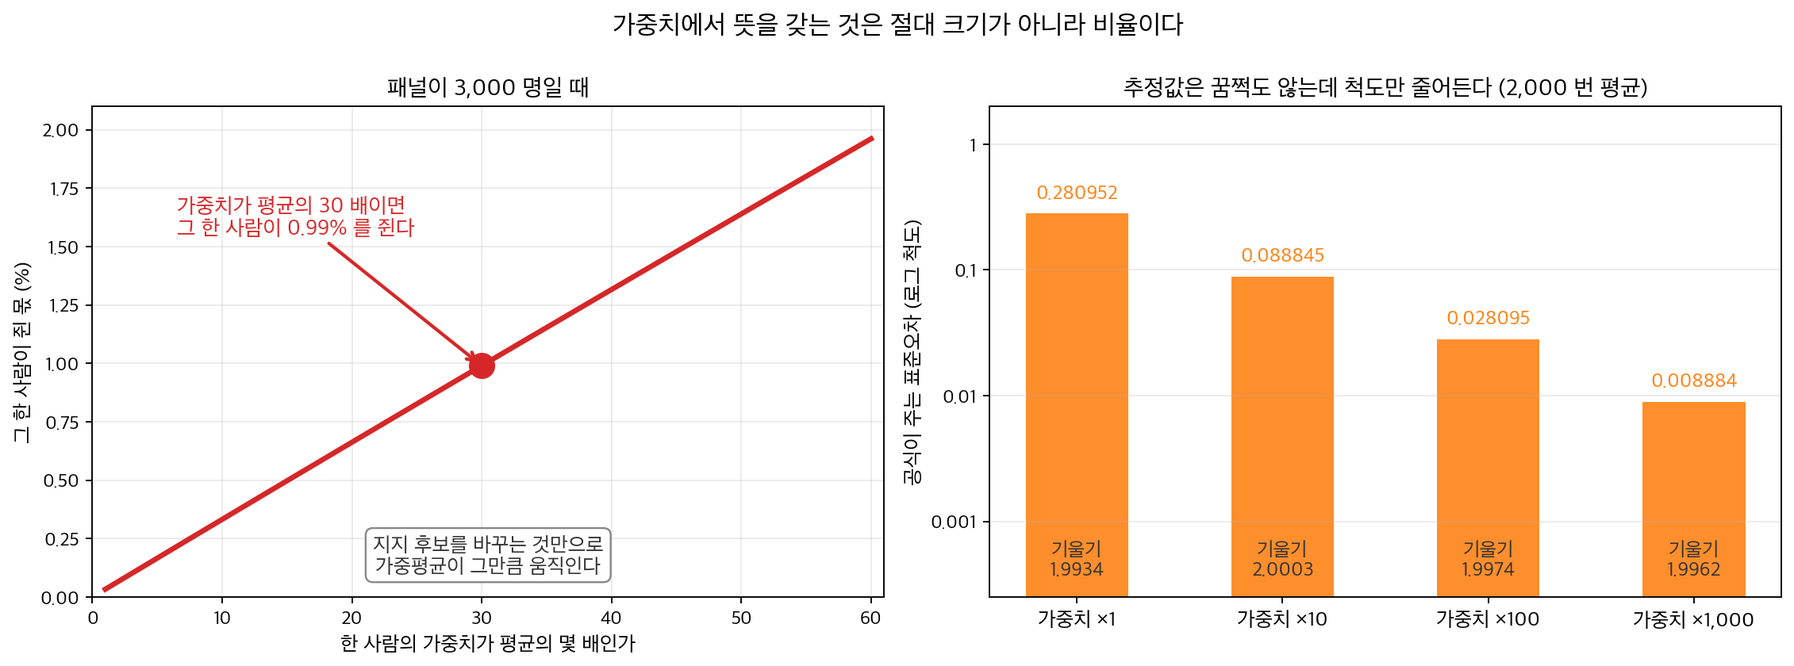
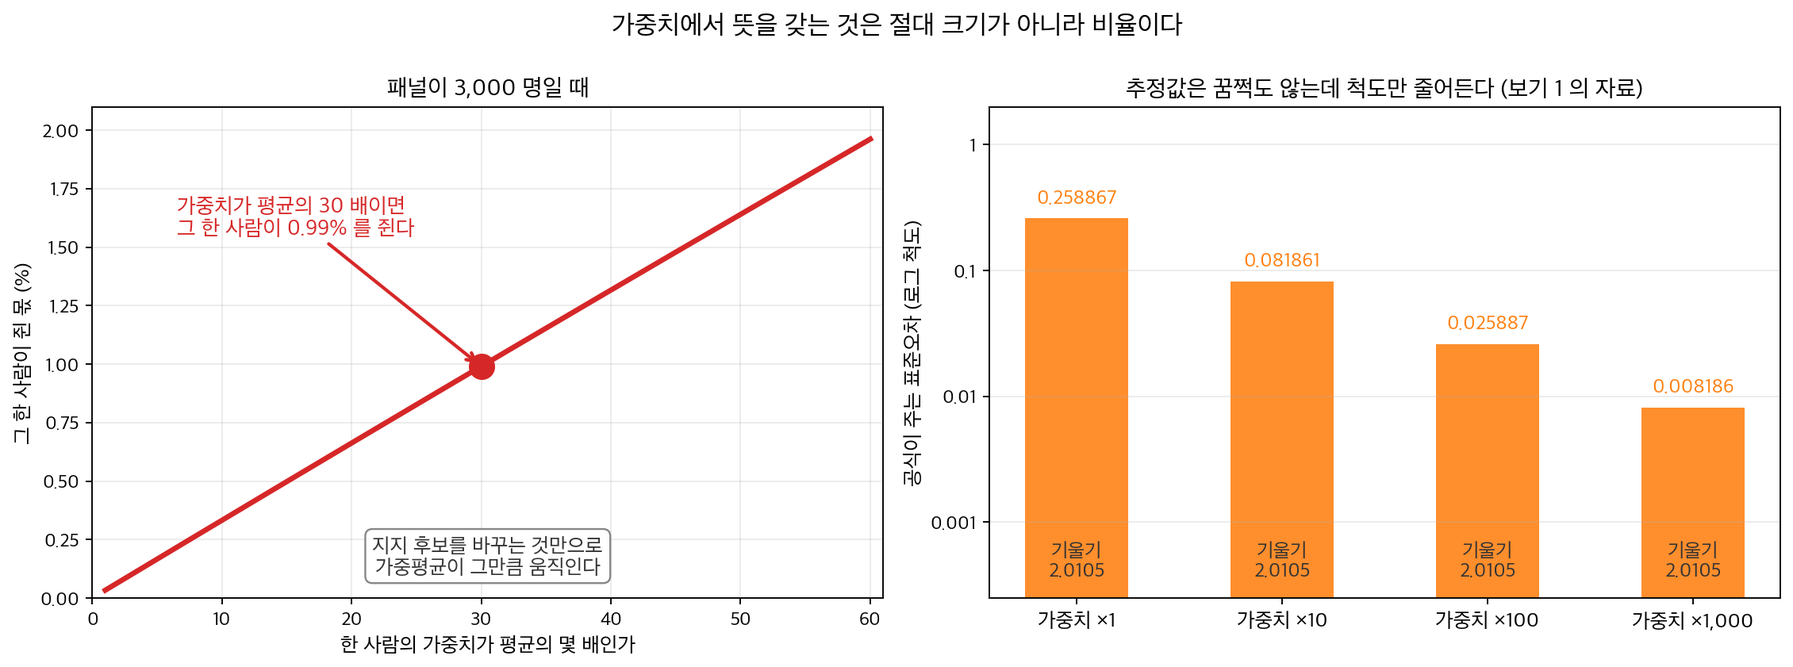
fix(ch13): 보고만 해 두었던 항목을 마무리한다
앞 편집 패스가 고치지 않고 남긴 항목을 하나씩 판정해 끝냈다. 이미 닫힌 것과 보고가
틀린 것은 건드리지 않았고, 펜스를 고친 쪽은 실제로 돌린 출력을 붙여 verify_outputs 로
맞췄다. 그림을 다시 그린 것은 스크립트와 함께 담았다. 바깥 사실은 확인한 출처로만 고쳤다.

diff --git a/scripts/make_ch11_galileo_degree.py b/scripts/make_ch11_galileo_degree.py
@@ -7,12 +7,17 @@ r"""13.8절 「그림으로 보는 통계학」 — 갈릴레오의 두 자료.
 이 쪽이 하는 일(차수를 교차검증으로 선택하기)을 그 일곱 점에 그대로 해 보면
 
   차수     1        2        3        4        5
-  R^2   0.9264   0.9903   0.9994   0.9998   0.9970
-  LOOCV  45.00    27.94     7.36     5.68     7.56   (RMSE, punti)
+  R^2   0.9264   0.9903   0.9994   0.9998   1.0000
+  LOOCV  45.00    27.94    12.51    26.37    70.65   (RMSE, punti)
 
-로 **차수 4** 가 이긴다. 그런데 그 4차식은 $h = 1214.8$ 에서 꺾여 **내려간다** —
-더 높은 데서 놓으면 더 가까이 떨어진다는 말이다. 2차식은 더 이르게 $h = 1030.5$,
-곧 자료의 맨 끝($1000$)에서 겨우 $30$ 푼티 위에서 꺾인다. 꺾이지 않는 것은 3차뿐이다.
+로 **차수 3** 이 이긴다. R^2 는 차수 5 까지 오르지만 LOOCV 는 3 에서 바닥을 찍는다.
+4차식은 $h = 1214.8$ 에서 꺾여 **내려가고**, 2차식은 더 이르게 $h = 1030.5$ 에서
+꺾인다. 꺾이지 않는 3차식도 $h = 0$ 에서 $156$ 푼티를 날아가고 $h \approx 758$ 을
+넘으면 위로 휜다 — $d \propto \sqrt h$ 의 오목한 모양과 반대다.
+
+(2026-11-20 까지 이 표는 원시 높이의 거듭제곱으로 적합해 5차 R^2 0.9970, LOOCV
+7.36 · 5.68 · 7.56 이라는 수치 오류 값을 실었고, 그래서 「차수 4 를 고른다」고 적었다.
+높이를 1000 으로 나눠 적합하고, 하나씩 빼고 다시 적합하는 LOOCV 로도 맞대어 고쳤다.)
 
 선반을 덧댄 자료 2 에서는 모수 **하나**짜리 물리 모형 $d = c\sqrt h$ 가
 
@@ -77,7 +82,11 @@ def loocv(X, y):
 
 
 def poly(H, D, d):
-    return loocv(np.vander(H, d + 1, increasing=True), D)
+    # 높이를 1000 으로 나눠 적합한다. 원시 높이(최대 1000)의 거듭제곱을 그대로 쓰면
+    # 5차에서 조건수가 1e16 에 닿아 R^2 가 4차보다 작게(0.9970) 나오는 수치 오류가 났다.
+    # R^2 와 LOOCV 는 척도에 불변이고, 계수는 원래 척도로 되돌려 돌려준다.
+    cv, r2, b = loocv(np.vander(H / 1000.0, d + 1, increasing=True), D)
+    return cv, r2, b / 1000.0 ** np.arange(d + 1)
 
 
 def turning_point(b):
@@ -142,7 +151,7 @@ def main():
     ax.set_ylim(180, 700)
     ax.set_xlabel("놓는 높이 $h$ (푼티)", fontsize=11.5)
     ax.set_ylabel("수평거리 $d$ (푼티)", fontsize=11.5)
-    ax.set_title("① 교차검증이 고른 $4$ 차식은 내려간다", fontsize=12.8,
+    ax.set_title("① 교차검증은 꺾이지 않는 $3$ 차식을 고른다", fontsize=12.8,
                  color=INK)
     ax.grid(alpha=0.22)
     ax.legend(fontsize=9.6, framealpha=0.94, loc="upper left")

diff --git a/scripts/make_ch11_leadbox_figures_b.py b/scripts/make_ch11_leadbox_figures_b.py
@@ -459,30 +459,26 @@ def fig_one_voice():
     M_PAGE = 30.0
     share_page = M_PAGE / (N_PANEL - 1 + M_PAGE)
 
-    n, REPS = 40, 2000
-    rng = np.random.default_rng(1124)
-    x = np.linspace(0.5, 4.0, n)
-    w = 1 / x ** 2
-    xc = x - np.average(x, weights=w)
+    # 쪽의 보기 1 과 같은 자료 (seed 42, n = 120) --- 들머리 본문과 보기 1 의
+    # 0.258867 → 0.008186 이 그대로 나오도록 한 표본으로 그린다.
+    np.random.seed(42)
+    n = 120
+    x = np.random.uniform(1, 10, n)
+    sigma = 0.5 + 1.5 * x
+    y = 3.0 + 2.0 * x + np.random.normal(0, sigma)
+    X = np.column_stack([np.ones(n), x])
+    w = 1.0 / sigma ** 2
     scales = np.array([1.0, 10.0, 100.0, 1000.0])
 
     est, se_rep = [], []
     for c in scales:
-        ww = c * w
-        b = np.empty(REPS)
-        s = np.empty(REPS)
-        for i in range(REPS):
-            y = 1.0 + 2.0 * x + rng.normal(0, x, n)
-            X = np.column_stack([np.ones(n), x])
-            W = np.diag(ww)
-            A = X.T @ W @ X
-            beta = np.linalg.solve(A, X.T @ W @ y)
-            # 가중치를 「이미 아는 정밀도」로 보는 공식. sigma^2 을 따로
-            # 추정하지 않으므로 가중치를 통째로 키우면 척도만 줄어든다.
-            b[i] = beta[1]
-            s[i] = np.sqrt(np.linalg.inv(A)[1, 1])
-        est.append(b.mean())
-        se_rep.append(s.mean())
+        W = np.diag(c * w)
+        A = X.T @ W @ X
+        beta = np.linalg.solve(A, X.T @ W @ y)
+        # 가중치를 「이미 아는 정밀도」로 보는 공식. sigma^2 을 따로
+        # 추정하지 않으므로 가중치를 통째로 키우면 척도만 줄어든다.
+        est.append(beta[1])
+        se_rep.append(np.sqrt(np.linalg.inv(A)[1, 1]))
 
     fig, (ax1, ax2) = plt.subplots(1, 2, figsize=(13.4, 4.9))
 
@@ -519,7 +515,7 @@ def fig_one_voice():
     ax2.set_yticks([], minor=True)
     ax2.set_xticks(xs, [f"가중치 ×{int(c):,}" for c in scales], fontsize=11)
     ax2.set_ylabel("공식이 주는 표준오차 (로그 척도)", fontsize=11)
-    ax2.set_title(f"추정값은 꿈쩍도 않는데 척도만 줄어든다 ({REPS:,} 번 평균)",
+    ax2.set_title("추정값은 꿈쩍도 않는데 척도만 줄어든다 (보기 1 의 자료)",
                   fontsize=12.5)
     ax2.grid(axis="y", alpha=0.25)
 

diff --git a/scripts/make_ch11_leadbox_figures_c.py b/scripts/make_ch11_leadbox_figures_c.py
@@ -284,7 +284,7 @@ def fig_pairwise_misses_it():
     ax2.grid(axis="y", alpha=0.25)
     ax2.text(0.5, 0.95, f"중앙값 {np.median(vifs):,.0f}\n"
              f"쌍별 상관의 최댓값은 {pair.max():.3f} 뿐인데\n"
-             f"VIF 는 모두 십만 언저리다",
+             f"VIF 는 모두 만을 넘는다",
              transform=ax2.transAxes, ha="center", va="top", fontsize=11.5,
              fontweight="bold", color="0.15",
              bbox=dict(boxstyle="round,pad=0.4", facecolor="white",

diff --git a/docs/ch13/package_usage/sklearn.md b/docs/ch13/package_usage/sklearn.md
@@ -480,7 +480,7 @@ _확인한 곳 — 모든 수는 scikit-learn 의 `LinearRegression` 과 `cross_
 
 ---
 
-## 4. 훈련–검정 분할
+## 4. 훈련–시험 분할
 
 표본 밖 성능을 추정하려면 적합하기 전에 자료를 나눈다.
 
@@ -536,17 +536,27 @@ _확인한 곳 — 모든 수는 scikit-learn 의 `LinearRegression` 과 `cross_
     ```
 
     ```python
-    scores = []
+    scores, train_scores, mse_gap = [], [], []
     for s in range(200):
         a, b, c, d = train_test_split(X, y, test_size=0.2, random_state=s)
-        scores.append(LinearRegression().fit(a, c).score(b, d))
-    scores = np.array(scores)
+        m = LinearRegression().fit(a, c)
+        scores.append(m.score(b, d))
+        train_scores.append(m.score(a, c))
+        # 두 평균제곱오차의 차이를 공통 분모 Var(y) 로 옮긴 것
+        mse_gap.append((np.mean((d - m.predict(b)) ** 2)
+                        - np.mean((c - m.predict(a)) ** 2)) / y.var())
+    scores, train_scores, mse_gap = np.array(scores), np.array(train_scores), np.array(mse_gap)
+    gap = train_scores - scores   # 같은 분할끼리 짝지은 간격
 
     print(f"이 분할에서 같은 모형의 훈련 R^2 = {model.score(X_train, y_train):.4f},  시험 R^2 = {r2_test:.4f}")
     print(f"200 번 다시 나눈 시험 R^2: 평균 {scores.mean():.4f}  표준편차 {scores.std(ddof=1):.4f}"
           f"  최소 {scores.min():.4f}  최대 {scores.max():.4f}")
     print(f"random_state=42 의 값은 평균에서 {(scores[42] - scores.mean()) / scores.std(ddof=1):+.2f} 표준편차")
     print(f"보기 3 의 훈련 R^2 0.9706 은 평균에서 {(0.970625 - scores.mean()) / scores.std(ddof=1):+.2f} 표준편차")
+    print(f"200 번의 훈련 R^2 평균 {train_scores.mean():.4f},  짝지은 간격 평균 {gap.mean():+.4f}"
+          f"  (표준오차 {gap.std(ddof=1) / np.sqrt(200):.4f})")
+    print(f"공통 분모 Var(y) 로 옮긴 간격 평균 {mse_gap.mean():+.4f}"
+          f"  (표준오차 {mse_gap.std(ddof=1) / np.sqrt(200):.4f})")
     ```
 
     출력:
@@ -556,13 +566,15 @@ _확인한 곳 — 모든 수는 scikit-learn 의 `LinearRegression` 과 `cross_
     200 번 다시 나눈 시험 R^2: 평균 0.9653  표준편차 0.0151  최소 0.9136  최대 0.9894
     random_state=42 의 값은 평균에서 +1.33 표준편차
     보기 3 의 훈련 R^2 0.9706 은 평균에서 +0.35 표준편차
+    200 번의 훈련 R^2 평균 0.9705,  짝지은 간격 평균 +0.0052  (표준오차 0.0013)
+    공통 분모 Var(y) 로 옮긴 간격 평균 +0.0020  (표준오차 0.0009)
     ```
 
     **(1)의 첫 지적이 수로 확인된다.** 같은 모형의 훈련 $R^2$ 는 $0.9706$ 이 아니라 **$0.9664$** 다. 적합에 쓴 관측값이 다르니 값도 다르다. 관측값이 적을수록 훈련 $R^2$ 는 기댓값으로 오히려 조금 높아지므로, $0.9706$ 보다 낮게 나온 것은 어느 $80$ 개가 뽑혔느냐의 몫이다. 비교의 바른 짝은 $0.9664$ 대 $0.9855$ 다.
 
     **(2) 그 차이는 운이다.** 분할을 $200$ 번 다시 하면 시험 $R^2$ 가 평균 $0.9653$, 표준편차 $0.0151$ 로 나오고 범위가 $0.9136$ 에서 $0.9894$ 까지 **$0.076$ 폭**으로 벌어진다. `random_state=42` 가 준 $0.9855$ 는 평균에서 $+1.33$ 표준편차, 곧 운이 좋은 쪽이었다.
 
-    평균 $0.9653$ 을 보면 이야기가 뒤집힌다. **시험 $R^2$ 의 평균이 훈련 $R^2$ $0.9664$ 보다 낮다.** 유도한 방향 그대로다. 과적합이 없다고 말할 수는 있지만, 그 근거는 "시험이 훈련보다 높다" 가 아니라 **"둘의 차이 $0.0011$ 이 분할 잡음 $0.0151$ 에 묻힌다"** 는 것이다.
+    평균을 보면 이야기가 뒤집힌다. 같은 $200$ 번의 분할에서 훈련 $R^2$ 의 평균은 $0.9705$ 이고, 분할마다 훈련에서 시험을 뺀 간격의 평균이 $+0.0052$(표준오차 $0.0013$)다. **평균으로는 시험 $R^2$ 가 훈련보다 낮다.** 유도한 방향 그대로다. 과적합이 없다고 말할 수는 있지만, 그 근거는 "시험이 훈련보다 높다" 가 아니라 **"간격 $0.0052$ 가 분할 잡음 $0.0151$ 에 묻힌다"** 는 것이다.
 
     여기서 교훈이 하나 나온다. **$n_{\text{test}} = 20$ 짜리 한 번의 분할로 얻은 점수를 성능이라고 보고하면 안 된다.** 소수 넷째 자리까지 적어 둔 $0.9855$ 가 실은 $\pm 0.03$ 의 불확실성을 지닌 수다. 아래 보기 6 의 교차검증이 이 변동을 줄이는 방법이다.
 
@@ -604,7 +616,7 @@ scikit-learn은 훈련–시험 분할의 반복을 자동화하는 교차검증
 
     이므로 $0.0054/\sqrt{5} \approx 0.0024$ 쪽이 평균의 불확실성에 가깝다. **$0.0054$ 를 "평균 $0.9683 \pm 0.0054$" 로 읽으면 두 배 넘게 부풀린 셈**이다.
 
-    다만 $\sqrt{5}$ 로 나누는 것도 정확하지는 않다. 다섯 겹의 훈련집합이 서로 $60$ 개를 공유하므로 점수들이 **독립이 아니다.** 양의 상관이 있으면 평균의 분산이 $s^2/5$ 보다 커진다. 그러므로 참값은 $0.0024$ 와 $0.0054$ 사이에 있다고 말하는 것이 옳다. 교차검증 점수의 표준오차를 제대로 쓰기 어렵다는 것이 널리 알려진 사정이다.
+    다만 $\sqrt{5}$ 로 나누는 것도 정확하지는 않다. 다섯 겹의 훈련집합이 서로 $60$ 개를 공유하므로 점수들이 **독립이 아니다.** 양의 상관이 있으면 평균의 분산이 $s^2/5$ 보다 커진다. 다섯 점수의 쌍마다 상관이 $\rho$ 라면 평균의 분산은 $\frac{s^2}{5}\{1 + 4\rho\}$ 이고, 이것이 가장 커지는 $\rho = 1$ 에서 $s^2$ 이 된다. 그러므로 참값은 $0.0024$ 와 $0.0054$ 사이에 있다고 말하는 것이 옳다. 교차검증 점수의 표준오차를 제대로 쓰기 어렵다는 것이 널리 알려진 사정이다.
 
     ```python
     from sklearn.model_selection import cross_val_score
@@ -1303,7 +1315,7 @@ $$
 
 **(1)** 둘을 **관측값당 평균제곱오차**로 고쳐 쓰고, 보기 5 의 설정($\sigma = 0.5$, $n_{\text{train}} = 80$, $p = 3$)에서 두 수와 그 비를 계산하시오. $\operatorname{Var}(y) = 11.5$ 를 써서 그것을 $R^2$ 척도로 옮기면 훈련과 시험의 차이는 얼마인가.
 
-**(2)** 같은 설정의 자료를 $5000$ 번 새로 만들어 $80/20$ 으로 나누고 두 평균제곱오차의 평균을 재어 (1) 과 맞추시오. 그 값을 보기 5 에서 관측한 차이 $0.0011$ 과 분할 잡음 $0.0151$ 과 함께 놓으면, 한 번의 분할로 과적합을 재려 할 때 무슨 일이 생기는가.
+**(2)** 같은 설정의 자료를 $5000$ 번 새로 만들어 $80/20$ 으로 나누고 두 평균제곱오차의 평균을 재어 (1) 과 맞추시오. 그 값을 보기 5 에서 짝지어 잰 간격 $0.0052$ 와 분할 잡음 $0.0151$ 과 함께 놓으면, 한 번의 분할로 과적합을 재려 할 때 무슨 일이 생기는가.
 
 </div>
 
@@ -1380,7 +1392,7 @@ $$
     \frac{\text{재려는 간격}}{\text{분할 잡음}} = \frac{0.0016}{0.0151} = 0.11
     $$
 
-    표준편차의 $0.11$ 배짜리 차이는 한 번 재서 보이지 않는다. 실제로 `random_state=42` 의 한 분할은 간격을 $0.9664 - 0.9855 = -0.0191$, 곧 **부호까지 거꾸로** 내놓았다. $200$ 번 다시 나눈 뒤에야 $0.9664$ 대 $0.9653$ 으로 $+0.0011$ 이라는 바른 부호가 나왔고, 그 평균의 표준오차 $0.0151/\sqrt{200} = 0.0011$ 을 생각하면 유도값 $0.0016$ 과도 구별되지 않는다.
+    표준편차의 $0.11$ 배짜리 차이는 한 번 재서 보이지 않는다. 실제로 `random_state=42` 의 한 분할은 간격을 $0.9664 - 0.9855 = -0.0191$, 곧 **부호까지 거꾸로** 내놓았다. $200$ 번 다시 나누어 같은 분할끼리 짝지은 뒤에야 간격 평균 $+0.0052$(표준오차 $0.0013$)라는 바른 부호가 나왔다. 그 값이 유도값 $0.0016$ 보다 큰 것은 $R^2$ 의 분모 때문이다. 시험 $R^2$ 는 $\mathrm{TSS}$ 를 시험자료 $20$ 개의 평균 둘레에서 재므로 평균제곱오차의 차이에 더해 그만큼 더 낮게 나온다. 두 평균제곱오차의 차이를 공통 분모 $\operatorname{Var}(y)$ 로 옮기면 보기 5 의 마지막 줄처럼 $0.0020$(표준오차 $0.0009$)으로 유도값과 구별되지 않는다.
 
     **그러므로 한 번 분할의 훈련–시험 차이는 과적합의 지표가 아니다.** 「왜 한 번 나누는 것으로는 부족한가」의 그림이 오차의 표준편차 $0.085$ 대 $0.044$ 로 같은 말을 했고, 여기서는 **재려는 양 자체가 $0.0016$ 밖에 안 된다**는 쪽에서 본 셈이다. 과적합이 걱정되면 분할을 반복해 평균을 보거나, 애초에 $p/n_{\text{train}}$ 을 보라. 식이 알려 주는 간격이 $2p\sigma^2/n_{\text{train}}$ 이니 모수의 개수와 훈련자료의 크기만 알면 그 크기를 미리 가늠할 수 있다.
 

diff --git a/docs/ch13/model_selection/cv_polynomial_model_selection.md b/docs/ch13/model_selection/cv_polynomial_model_selection.md
@@ -14,7 +14,7 @@
 
 <figure markdown>
 ![두 칸짜리 그림. 왼쪽은 분할을 2000 번 다르게 했을 때 검증집합이 고른 차수의 분포로, 참 차수인 2 가 가장 자주 뽑히지만 비율이 36 퍼센트에 그치고 열 가지 차수가 모두 이긴 적이 있다. 오른쪽은 차수 2 의 검증 MSE 분포로 평균은 참 잡음분산에 거의 맞는데 최소와 최대가 두 배 넘게 차이 난다](./img/which_degree_wins.png){ width="980" }
-  <figcaption markdown>같은 자료에 분할만 $2{,}000$ 번 다르게 했다. **왼쪽.** 참 차수 $2$ 가 가장 자주 뽑히기는 하는데 그 비율이 $36.5\%$ 에 그치고, **열 가지 차수가 모두 한 번씩은 이긴다.** 참 답이 후보 안에 들어 있는데도 그렇다. **오른쪽.** 자가 편향되어서가 아니다 — 차수 $2$ 의 검증 MSE 는 평균 $4.24$ 로 참 잡음분산 $4$ 에 거의 맞는데, 한 번의 값이 $2.64$ 에서 $5.63$ 까지 **두 배 넘게** 흩어진다. 그 변동이 차수 사이의 차이보다 커서 순위가 뒤집힌다. **편향이 없고 분산만 큰 자는 한 번으로 쓰면 안 된다.**</figcaption>
+  <figcaption markdown>참 관계는 같고 자료는 따로 뽑은 것이다 — $x$ 를 $(-3,\ 3)$ 에서 뽑고 **절반($100$ 개)을 검증에 쓴다.** 그 한 자료에 분할만 $2{,}000$ 번 다르게 했다. 보기 1 은 $40$ 개($20\%$)로 검증하므로 위 문단의 범위 $2.5677$–$5.6572$ 가 횟수가 백 배인 이 그림의 범위보다도 넓다. **왼쪽.** 참 차수 $2$ 가 가장 자주 뽑히기는 하는데 그 비율이 $36.5\%$ 에 그치고, **열 가지 차수가 모두 한 번씩은 이긴다.** 참 답이 후보 안에 들어 있는데도 그렇다. **오른쪽.** 자가 편향되어서가 아니다 — 차수 $2$ 의 검증 MSE 는 평균 $4.24$ 로 참 잡음분산 $4$ 에 거의 맞는데, 한 번의 값이 $2.64$ 에서 $5.63$ 까지 **두 배 넘게** 흩어진다. 그 변동이 차수 사이의 차이보다 커서 순위가 뒤집힌다. **편향이 없고 분산만 큰 자는 한 번으로 쓰면 안 된다.**</figcaption>
 </figure>
 
 스무 번 가운데 가장 좋은 번과 가장 나쁜 번의 점수가 두 배 넘게 다르다.
@@ -307,7 +307,7 @@ $$
 
     어느 쪽이 맞는가. **무차별 재적합 쪽이 더 믿을 만하다.** 지름길은 $(\mathbf{X}^\top\mathbf{X})^{-1}$ 을 한 번 만들어 모든 $h_{ii}$ 를 거기서 끌어내므로 그 한 번의 오차가 전부에 번지는데, 무차별 쪽은 겹마다 따로 최소제곱을 풀고 sklearn 은 정규방정식(normal equations) 대신 QR/[SVD](../../glossary.md#svd) 기반의 `lstsq` 를 쓴다. 지름길의 값이 훈련 MSE 쪽으로 **끌려 내려간** 모양($3.7969 < 3.8318$, 차수 $10$ 이 차수 $2$ 보다 낮다)인 것도 오차의 흔적이다. 무차별 값은 차수 $3$ 부터 꾸준히 오르는데 지름길만 훈련 MSE 를 따라 내려가므로, 과적합이 심해지는 구간에서 지름길 쪽이 틀렸다고 보는 것이 자연스럽다.
 
-    교훈은 둘이다. 첫째, **지름길 식은 대수적으로 정확하지만 수치적으로는 설계행렬의 조건에 달려 있다.** 연습문제 1 이 차수 $2$ 에서 두 값의 일치를 확인하는 것은 조건수가 $226$ 으로 작기 때문이다. 둘째, **원시 거듭제곱 기저를 차수 $5$ 넘게 쓰지 말라.** 직교다항식(`numpy.polynomial.legendre` 나 patsy 의 `poly()`)을 쓰면 조건수가 $10$ 아래에 머물고(연습문제 10 에서 $1.70$ 에서 $6.83$ 사이다) 이 문제가 사라진다.
+    교훈은 둘이다. 첫째, **지름길 식은 대수적으로 정확하지만 수치적으로는 설계행렬의 조건에 달려 있다.** 연습문제 1 이 차수 $2$ 에서 두 값의 일치를 확인하는 것은 조건수가 $226$ 으로 작기 때문이다. 둘째, **원시 거듭제곱 기저를 차수 $5$ 넘게 쓰지 말라.** 직교다항식(`numpy.polynomial.legendre`, 또는 R 의 `poly()` 처럼 거듭제곱 열을 QR 분해로 직교화한 기저)을 쓰면 조건수가 $10$ 아래에 머물고(연습문제 10 에서 $1.70$ 에서 $6.83$ 사이다) 이 문제가 사라진다.
 
 ### k-겹 교차검증
 
@@ -348,8 +348,8 @@ $$
     ```python
     from sklearn.model_selection import KFold
 
-    # k겹 교차검증은 그 둘의 절충이다. 10번만 적합하면 되고, 하나 빼기보다
-    # 추정의 분산이 작다. 그래서 실제로는 이쪽을 가장 많이 쓴다.
+    # k겹 교차검증은 그 둘의 절충이다. 10번만 적합하면 되고 하나 빼기와 거의
+    # 같은 값을 준다. 그래서 실제로는 이쪽을 가장 많이 쓴다.
     kfold = KFold(n_splits=10, shuffle=True, random_state=42)
     kfold_mse = np.zeros(len(degrees))
     for i, degree in enumerate(degrees):
@@ -470,13 +470,13 @@ $$
 |---|---|---|---|---|
 | $1$ | $2$ | $0.9264$ | $45.00$ | 없다 |
 | $2$ | $3$ | $0.9903$ | $27.94$ | $h = 1030$ |
-| $3$ | $4$ | $0.9994$ | $7.36$ | 없다 |
-| **$4$** | $5$ | $0.9998$ | **$5.68$** | $h = 1215$ |
-| $5$ | $6$ | $0.9970$ | $7.56$ | 없다 |
+| **$3$** | $4$ | $0.9994$ | **$12.51$** | 없다 |
+| $4$ | $5$ | $0.9998$ | $26.37$ | $h = 1215$ |
+| $5$ | $6$ | $0.99996$ | $70.65$ | 없다 |
 
-**교차검증은 차수 $4$ 를 고른다.** 그런데 고른 그 식은 $h = 1215$ 에서 꺾여 **내려간다.** 더 높은 데서 놓으면 더 가까이 떨어진다는 말이다. $2$ 차식은 더 이르게 꺾인다 — $h = 1030$ 이면 자료의 맨 끝($1000$)에서 겨우 $30$ 푼티 위다. 꺾이지 않는 것은 $3$ 차뿐인데, LOOCV 는 그 $3$ 차($7.36$)보다 $4$ 차($5.68$)를 더 좋다고 말한다. **고른 모형이 물리적으로 불가능하다는 사실은 교차검증값 어디에도 나타나지 않는다.**
+**교차검증은 차수 $3$ 을 고른다.** $R^2$ 은 차수 $5$ 까지 끝내 오르지만 LOOCV 는 $3$ 차에서 바닥을 찍고 $4$ 차 $26.37$, $5$ 차 $70.65$ 로 뛴다. 여기까지는 교차검증이 제 일을 했다. $4$ 차식은 $h = 1215$ 에서 꺾여 **내려가고** — 더 높은 데서 놓으면 더 가까이 떨어진다는 말이다 — $2$ 차식은 더 이르게 $h = 1030$, 곧 자료의 맨 끝($1000$)에서 겨우 $30$ 푼티 위에서 꺾인다. 그런데 꺾이지 않는 $3$ 차식도 물리적으로 맞지는 않는다. $h = 0$ 에서 **굴리지 않아도 $156$ 푼티를 날아가고**, $h pprox 758$ 을 넘으면 위로 휘어 자료가 끝난 뒤 가파르게 솟는다. 굴러 내린 높이와 거리의 관계가 오목해야 한다는 것과 반대다. **고른 모형이 물리적으로 말이 되는지는 교차검증값 어디에도 나타나지 않는다** — 후보가 모두 다항식이면 교차검증은 그 가운데 덜 나쁜 것을 고를 뿐이다.
 
-![갈릴레오의 두 자료 — 고른 차수가 내려가는 모습과 선반을 덧댄 뒤의 한 모수 적합](./img/galileo_degree.png)
+![갈릴레오의 두 자료 — 교차검증이 고른 3차식이 자료 밖에서 위로 휘고 2차·4차식은 꺾여 내려가는 모습, 그리고 선반을 덧댄 뒤의 한 모수 적합](./img/galileo_degree.png)
 
 갈릴레오는 두 번째 실험을 했다. 경사면 끝에 **수평 선반**을 덧대어, 공이 책상을 떠날 때 아래로 향하던 속도 성분을 없앤 것이다. 그러면 셈이 단순해진다. 떠나는 속도는 수평이고, 바닥까지 떨어지는 시간은 책상 높이로 고정되며, 굴러 내린 높이와 속도는 $v \propto \sqrt h$ 로 이어진다. 곧
 

diff --git a/docs/ch13/linear_regression/simple.md b/docs/ch13/linear_regression/simple.md
@@ -347,7 +347,7 @@ _확인한 곳 — [Internet Archive 「A Relation between Distance and Radial V
     print(f"2 SD 띠 = [{band_low:.4f}, {band_high:.4f}],  폭 = {band_high - band_low:.4f}")
     print(f"띠 안 {inside} / {n} = {inside / n:.4f}")
     print(f"  아래로 이탈 {(heights < band_low).sum()}명,  위로 이탈 {(heights > band_high).sum()}명")
-    print(f"체비셰프 하한 1 - 1/2^2 = {1 - 1 / 4:.4f}")
+    print(f"체비쇼프 하한 1 - 1/2^2 = {1 - 1 / 4:.4f}")
     print(f"정규 근사     Phi(2)-Phi(-2) = {stats.norm.cdf(2) - stats.norm.cdf(-2):.4f}")
     print(f"  이항 표준오차 = {np.sqrt(0.9545 * 0.0455 / n):.4f}")
     print(f"키의 왜도 {heights.skew():.4f},  초과첨도 {heights.kurt():.4f}")
@@ -377,7 +377,7 @@ _확인한 곳 — [Internet Archive 「A Relation between Distance and Radial V
     2 SD 띠 = [163.3781, 192.1126],  폭 = 28.7345
     띠 안 239 / 247 = 0.9676
       아래로 이탈 3명,  위로 이탈 5명
-    체비셰프 하한 1 - 1/2^2 = 0.7500
+    체비쇼프 하한 1 - 1/2^2 = 0.7500
     정규 근사     Phi(2)-Phi(-2) = 0.9545
       이항 표준오차 = 0.0133
     키의 왜도 0.1042,  초과첨도 -0.1143
@@ -960,7 +960,7 @@ $$
 
     해석의 요점은 이렇다. 키가 평균보다 $3$ SD, 곧 $199.3\,\text{cm}$인 사람에게 SD 직선은 $109.7\,\text{kg}$을 주고 회귀직선은 $95.0\,\text{kg}$을 준다. **$14.7\,\text{kg}$ 차이다.** 표준단위로 보면 키에서 $3$ SD 극단인 사람의 예측 몸무게가 $1.60$ SD 극단에 지나지 않는다. $3$에서 $1.6$으로 **절반 가까이 되돌아온 것**이 평균으로의 회귀이며, 되돌아오지 않고 남는 비율이 바로 $r = 0.53$이다($3 \times 0.5347 = 1.60$).
 
-    한 가지 혼동을 미리 막아 두자. 평균으로의 회귀는 **몸무게의 산포가 실제로 줄어든다는 뜻이 아니다.** 키가 $199\,\text{cm}$인 사람들의 몸무게도 여전히 넓게 흩어져 있다. 줄어든 것은 그 분포의 **중심**이고, 산포는 조건부 표준편차 $s_y\sqrt{1-r^2} = 10.51 \times 0.8450 = 8.88\,\text{kg}$로 남는다. 예측구간(prediction interval)이 좁아지지 않는 까닭이 이것이며, A.4절과 이 장의 예측대가 같은 이야기를 한다. $\square$
+    한 가지 혼동을 미리 막아 두자. 평균으로의 회귀는 **몸무게의 산포가 실제로 줄어든다는 뜻이 아니다.** 키가 $199\,\text{cm}$인 사람들의 몸무게도 여전히 넓게 흩어져 있다. 줄어든 것은 그 분포의 **중심**이고, 산포는 조건부 표준편차 $s_y\sqrt{1-r^2} = 10.51 \times 0.8450 = 8.88\,\text{kg}$로 남는다. 예측구간(prediction interval)이 좁아지지 않는 까닭이 이것이며, A.4절 [표집분포 (단순 최소제곱)](../../ch00/linalg_regression/linalg_statistics/sampling_dist_simple_ols.md)과 13.3절 [신뢰대와 예측대](../estimation_inference/prediction_bands.md)가 같은 이야기를 한다. $\square$
 
 ---
 
@@ -1560,7 +1560,7 @@ $$
     y-bar - b * x-bar   = -60.9533641420
     ```
 
-    **세 식이 소수 열째 자리까지 같다.** 실제 차이는 $8.9 \times 10^{-16}$으로 부동소수점 한계다. 절편도 $\bar y - \hat b\bar x$와 같다. 그러므로 아래 블록이 찍는 `Slope (Beta)`는 `SPY` 와 `AAPL` 수익률로 계산한 $S_{xy}/S_{xx}$이고, `Intercept (Alpha)`는 $\bar y - \hat\beta\bar x$다.
+    **세 식이 소수 열째 자리까지 같다.** 실제 차이는 가장 큰 것도 $8.9 \times 10^{-16}$으로 부동소수점 한계다. 절편도 $\bar y - \hat b\bar x$와 같다. 그러므로 아래 블록이 찍는 `Slope (Beta)`는 `SPY` 와 `AAPL` 수익률로 계산한 $S_{xy}/S_{xx}$이고, `Intercept (Alpha)`는 $\bar y - \hat\beta\bar x$다.
 
     **(2) 시험 칸의 직선은 시험자료를 쓰지 않았다.** `model.fit`은 훈련자료에서 한 번만 호출되고, 시험 칸에서는 `model.predict(x_test)`로 **같은 계수**를 그대로 쓴다. 이것을 "시험자료에 적합한 직선"으로 읽으면 두 가지를 놓친다.
 
@@ -1717,7 +1717,7 @@ $$
 
     **(2) 두 가지가 재현성에 하는 일이 다르다.** `period='max'`는 **끝점**을 실행하는 날로 잡는다. 그래서 돌릴 때마다 자료가 길어지고 베타도 조금씩 움직인다. `how='inner'`는 두 계열의 **날짜 교집합**만 남기므로 시작점을 늦게 상장된 쪽이 정하는데, 이 시작점 자체는 고정된다. 곧 **재현을 깨는 쪽은 `period='max'` 이고, `how='inner'` 는 표본의 범위를 결정할 뿐이다.**
 
-    고치는 길은 보기 11 과 같다. `start`, `end`를 못 박고 `auto_adjust=False`를 주는 것이다. 조정종가는 배당·분할이 생길 때마다 과거 값까지 소급해 바뀌므로, 날짜를 고정해도 조정종가를 쓰면 수익률이 달라진다.
+    고치는 길은 보기 11 과 같다. `start`, `end`를 못 박고 `auto_adjust=False`를 주는 것이다. 조정종가는 배당·분할이 생길 때마다 과거 값까지 소급해 바뀌므로, 날짜를 고정해도 내려받는 **가격 수준**이 실행하는 날마다 달라진다. 다만 소급 조정은 창 전체에 같은 인수를 곱하는 것이라 창 안의 `pct_change` 수익률은 반올림 차이를 빼면 그대로다. 베타가 흔들리는 것은 가격 수준이 아니라 **창의 끝점**이 움직일 때다.
 
     !!! note "이 블록의 출력을 싣지 못한 사정"
         이 블록은 `yfinance`로 **실행 시점의** 시장 자료를 내려받는다. 기간이 고정되어 있지 않으므로 추정된 베타도 실행할 때마다 달라지며, 그래서 고정된 출력이나 그림을 싣지 않았다. 더하여 이 책을 쓰는 환경에서는 `yfinance`가 요청 한도(`YFRateLimitError`)에 걸려 아예 내려받지 못했다. 직접 실행해 얻은 값으로 읽으면 되고, (1)에서 본 대로 **두 히스토그램이 아니라 산점도**가 베타를 결정한다는 점만 가져가면 된다. $\square$

diff --git a/docs/ch13/linear_regression/multiple.md b/docs/ch13/linear_regression/multiple.md
@@ -58,7 +58,7 @@ $1899$ 년에 그것을 수로 한 사람이 **조지 우드니 율**이다. 그
 노령 인구를 넣었기에 그 몫이 걸러졌을 뿐, 넣지 않은 무언가가 있었다면 그것은 여전히
 $x_1$ 의 계수 안에 앉아 있다. 위 그림의 왼쪽이 바로 그 모습이다.
 
-_확인한 곳 — 율의 $1899$ 년 『Journal of the Royal Statistical Society』 논문 「An Investigation into the Causes of Changes in Pauperism in England」이 구제 비율·노령 인구 비율·인구 변화를 함께 넣은 다중회귀였고 사회과학에서 그 방법이 쓰인 이른 사례로 꼽힌다는 것, 그가 $1926$ 년에 「Why do we sometimes get nonsense-correlations between time-series?」를 썼다는 것은 통계사에서 거듭 다루어져 온 것이다 · 그림의 수치는 이 쪽에서 만든 자료($n=120$)로 직접 쟀다_
+_확인한 곳 — 율의 $1899$ 년 『Journal of the Royal Statistical Society』 논문 「An Investigation into the Causes of Changes in Pauperism in England」(62권 249–295쪽)이 구제 비율·노령 인구 비율·인구 변화를 함께 넣은 다중회귀였고 사회과학에서 그 방법이 쓰인 이른 사례로 꼽힌다는 것, 그가 $1926$ 년에 「Why do we sometimes get nonsense-correlations between time-series?」를 썼다는 것은 통계사에서 거듭 다루어져 온 것이다 · 그림의 수치는 이 쪽에서 만든 자료($n=120$)로 직접 쟀다_
 
 </div>
 
@@ -2178,7 +2178,7 @@ $$
 
     **(1) 넷 다 들어온다. 다만 보장된 일은 아니다.** $95\%$ 신뢰구간의 뜻은 "같은 실험을 반복하면 구간이 참값을 덮는 비율이 $0.95$ 가 된다"이다. 네 모수가 각각 $0.95$ 확률로 덮이므로, **하나라도 벗어날 확률이 작지 않다.** 네 구간이 서로 독립이라면 모두 덮을 확률이 $0.95^4 = 0.8145$ 이고, 실제로는 상관되어 있어 그보다 높다. 그러므로 "넷 다 들어왔다"는 흔한 결과이고 모형이 특별히 훌륭하다는 뜻이 아니다. 거꾸로 하나가 벗어났더라도 그 자체로는 경고가 아니다.
 
-    **(2) 해석적으로.** 잔차분산 $s^2 = \text{RSS}/(n-p)$ 는 $\sigma^2$ 의 불편추정량(unbiased estimator)이다. 자유도 $n - p = 42 - 4 = 38$ 에서 $s$ 의 상대 표준오차는 대략 $1/\sqrt{2 \times 38} = 11.5\%$ 다.
+    **(2) 해석적으로.** 잔차분산 $s^2 = \text{RSS}/(n-p)$ 는 $\sigma^2$ 의 불편추정량(unbiased estimator)이다. 여기서 $p$ 는 보기 3 의 쪽지처럼 **절편을 포함한 계수의 개수**($p = 4$)이고, 본문의 표기로는 $n - p - 1$ 에 설명변수 $3$ 개를 넣은 것과 같다. 자유도 $n - p = 42 - 4 = 38$ 에서 $s$ 의 상대 표준오차는 대략 $1/\sqrt{2 \times 38} = 11.5\%$ 다.
 
     이론 $R^2$ 는 연습문제 17의 분산분해에서 바로 나온다.
 
@@ -2446,7 +2446,7 @@ $$
 
 임을 보이시오.
 
-**(2)** 훈련자료의 평균 지렛값이 언제나 정확히 $p/n$ 임을 쓰고, 검정점의 평균 지렛값을 그 값으로 근사하여 세 변수 모형의 검정 RMSE 가 겨냥하는 값을 $n = 42$, $p = 4$ 로 계산하시오. 실제로 여덟 검정 주의 평균 지렛값은 $0.1371$ 이다. 이 값을 쓰면 얼마가 되며, 관측값 $10.32$ 와 어긋나는가. 참 계수가 $0$ 인 `percent_black`·`percent_hispanic` 두 변수를 더 넣으면 이 값은 얼마가 되는가.
+**(2)** 훈련자료의 평균 지렛값이 언제나 정확히 $p/n$ 임을 쓰고, 검정점의 평균 지렛값을 그 값으로 근사하여 세 변수 모형의 검정 RMSE 가 겨냥하는 값을 $n = 42$, $p = 4$ 로 계산하시오(이 문제의 $p$ 는 연습문제 18 처럼 **절편을 포함한 계수의 개수**, 곧 $X$ 의 열 개수다). 실제로 여덟 검정 주의 평균 지렛값은 $0.1371$ 이다. 이 값을 쓰면 얼마가 되며, 관측값 $10.32$ 와 어긋나는가. 참 계수가 $0$ 인 `percent_black`·`percent_hispanic` 두 변수를 더 넣으면 이 값은 얼마가 되는가.
 
 </div>
 
@@ -2585,7 +2585,7 @@ $$
 
 **연습문제 24.** <span class="diff hard" title="어려움"></span> 연습문제 18 의 풀이는 "두 표본분산으로 직접 적으면 $1 - 12.9413^2/13.5481^2 = 0.0876$ 인데, $R^2$ 는 $\text{RSS}$ 와 $\text{TSS}$ 를 자유도로 나누지 않고 그대로 비를 잡으므로 $0.1543$ 이 나온다"고 적었다. 이 $0.0876$ 의 정체를 밝힌다.
 
-**(1)** $s^2 = \mathrm{RSS}/(n-p)$ 와 $s_y^2 = \mathrm{TSS}/(n-1)$ 에 대해
+**(1)** $p$ 를 절편을 포함한 계수의 개수라 할 때 $s^2 = \mathrm{RSS}/(n-p)$ 와 $s_y^2 = \mathrm{TSS}/(n-1)$ 에 대해
 
 $$
 1 - \frac{s^2}{s_y^2} = 1 - (1 - R^2)\frac{n-1}{n-p}

diff --git a/docs/ch13/splines_gams/splines_patsy_examples.md b/docs/ch13/splines_gams/splines_patsy_examples.md
@@ -64,7 +64,7 @@ $$
 
 왼쪽이 "B-스플라인 기저"라는 말의 그림이다. 구간 $[1, 9]$에 $3$차 B-스플라인 기저 $7$개를 그렸다. 각 봉우리가 기저함수 하나이며, 저마다 **좁은 구간에서만 0이 아니다.** 이것이 고차 다항식과 갈라지는 지점이다. $x^{10}$ 같은 항은 정의역 전체에서 값을 가지므로 한쪽 끝의 관측값 하나가 반대쪽 끝의 적합까지 흔들지만, B-스플라인은 어떤 $x$ 근처의 자료가 서너 개 기저의 계수에만 영향을 준다. 검은 점선이 보여 주듯 기저함수를 모두 더하면 항상 $1$이 되는데, 이 성질 덕분에 계수들이 곧 곡선의 국소적인 높이처럼 행동한다.
 
-오른쪽이 자연 스플라인의 제약이 무엇을 하는지다. 회색 음영이 자료가 있는 $[1.05,\ 8.90]$ 구간이고, 두 스플라인 모두 그 안에서는 참 곡선을 거의 똑같이 따라간다. 훈련 [RMSE](../../glossary.md#rmse)도 $0.680$과 $0.678$로 차이가 없다. 갈라지는 것은 **밖으로 나간 뒤**다. 주황색 B-스플라인은 경계에서 마지막 $3$차식이 그대로 이어지므로 위로 솟았다가 아래로 꺾여 내려간다. $x = 11.5$에서 예측이 $2.82$인데 참값은 $5.49$다. 초록색 자연 스플라인은 경계 매듭 바깥에서 $f'' = 0$이라는 제약을 받아 **직선으로 뻗는다.** 같은 자리에서 예측이 $9.79$로, 이쪽도 참값에서 멀지만 적어도 곡선이 폭주하지는 않는다.
+오른쪽이 자연 스플라인의 제약이 무엇을 하는지다. 회색 음영이 자료가 있는 $[1.05,\ 8.90]$ 구간이고, 두 스플라인 모두 그 안에서는 참 곡선을 거의 똑같이 따라간다. 훈련 [RMSE](../../glossary.md#rmse)도 $0.680$과 $0.678$로 차이가 없다. 갈라지는 것은 **밖으로 나간 뒤**다. 주황색 B-스플라인은 경계에서 마지막 $3$차식이 그대로 이어지므로 위로 솟았다가 아래로 꺾여 내려간다. $x = 11.5$에서 예측이 $2.82$인데 참값은 $5.49$다(이 그림은 SciPy 의 B-스플라인을 경계 밖까지 계산하도록 두고 그렸다. 아래에서 쓰는 patsy 의 `bs()` 는 경계 밖의 값을 아예 거부한다 — 연습문제 3). 초록색 자연 스플라인은 경계 매듭 바깥에서 $f'' = 0$이라는 제약을 받아 **직선으로 뻗는다.** 같은 자리에서 예측이 $9.79$로, 이쪽도 참값에서 멀지만 적어도 곡선이 폭주하지는 않는다.
 
 이 대비가 "자유도 $4$를 내주고 대신 안정성을 산다"는 자연 스플라인의 거래다. $3$차식이 통제 없이 뻗어 나가는 쪽과 직선이 뻗어 나가는 쪽 가운데, 외삽의 위험이 훨씬 작은 것은 후자다. 물론 **어느 쪽이든 자료 범위 밖의 예측은 믿을 것이 못 된다**는 점은 같다. 자연 스플라인은 그 오차가 폭발하지 않도록 막아 줄 뿐이다.
 
@@ -629,7 +629,7 @@ print("  3 조건 계수행렬의 계수(rank) =", np.linalg.matrix_rank(A[:3]),
 
     $R^2$가 df=4에서 0.0346까지 오른 뒤로는 거의 늘지 않는다(df=6에서는 오히려 미세하게 줄었는데, 매듭 위치가 달라지면서 생기는 일이다). 훈련 자료에 대한 적합이므로 이 값만으로는 과적합을 판단할 수 없다.
 
-    과적합은 곡선의 모양에서 드러난다. 지나친 요동으로 나타나며, 특히 자료가 성긴 경계 근처에서 두드러진다. 이 자료에서는 대체로 df > 6에서 징후가 보이기 시작한다. 형식적으로 고르려면 교차검증을 써야 한다. $\square$
+    과적합은 곡선의 모양에서 드러난다. 지나친 요동으로 나타나며, 특히 자료가 성긴 경계 근처에서 두드러진다. 그런데 이 자료는 $22{,}687$건이나 되어서 df $=8$까지는 그런 징후가 뚜렷하지 않다. 곡선을 격자 위에서 그려 보면 오르내림이 바뀌는 횟수가 df $=4$ 이후 두세 번에 머물고, 양 끝값도 크게 튀지 않는다. 이 범위의 df 는 표본 크기에 비해 너무 작아서 요동을 만들어 낼 여지가 없는 것이다. 연습문제 8 이 보이듯 위의 $R^2$ 가 오르내리는 것도 과적합의 징후로 읽을 일이 아니다. 형식적으로 고르려면 교차검증을 써야 한다. $\square$
 
 <div class="drillbox" markdown>
 

diff --git a/docs/ch13/assumptions/checking_normality.md b/docs/ch13/assumptions/checking_normality.md
@@ -74,7 +74,7 @@ $$
 
 ## 2. 네 진단이 같은 자료와 모형을 쓴다
 
-이 페이지의 진단은 모두 아래 자료와 모형 하나를 놓고 수행한다.
+네 가정의 진단 쪽(선형성·정규성·등분산성·독립성(independence))은 모두 아래 자료와 모형 하나를 쓴다. 이 페이지의 진단도 모두 그것을 놓고 수행한다.
 
 <div class="exbox" markdown>
 
@@ -410,7 +410,7 @@ $$
 
     **절편이 $3.10 \times 10^{-15}$다.** (1)에서 유도한 대로 0이며, 남은 것은 부동소수점 찌꺼기뿐이다.
 
-    **기울기 $2.3627$은 $\sigma$의 추정값이다.** 표준정규의 분위수를 $\sigma$배 늘린 것이 $N(0,\sigma^2)$의 분위수이므로 기울기가 곧 척도다. 회귀의 $\hat\sigma = 2.3641$, 잔차의 표본표준편차 $s_e = 2.3541$과 나란히 두면 셋이 서로 $0.4\%$ 안에 있다. 셋 다 같은 것을 다른 방식으로 재고 있다.
+    **기울기 $2.3627$은 $\sigma$의 추정값이다.** 표준정규의 분위수를 $\sigma$배 늘린 것이 $N(0,\sigma^2)$의 분위수이므로 기울기가 곧 척도다. 회귀의 $\hat\sigma = 2.3641$, 잔차의 표본표준편차 $s_e = 2.3541$과 나란히 두면 셋이 서로 $0.5\%$ 안에 있다. 셋 다 같은 것을 다른 방식으로 재고 있다.
 
     **꼬리에서 읽히는 것.** 가장 작은 잔차가 $-7.036$인데 기준선은 그 자리에 $-5.970$을 예측한다. 가장 큰 잔차는 $+6.518$인데 예측은 $+5.970$이다. **양쪽 끝이 모두 선 바깥으로 벌어진다** — 왼쪽은 아래로, 오른쪽은 위로. 이것이 S자 패턴이고 두꺼운 꼬리의 표시이며, 보기 2의 첨도 $3.5595$와 같은 말이다. 양 끝이 같은 쪽으로(둘 다 위로, 또는 둘 다 아래로) 휘었다면 왜도였을 것이다(아래 표와 연습문제 9).
 
@@ -1412,7 +1412,7 @@ $$
     - **설계 쪽.** 이 표본의 $X$를 고정하고 $\bar{\sigma^2} = \frac{1}{n}\sum_i \sigma_i^2 = 6.0916$을 쓰면 $\sqrt{\bar{\sigma^2}/S_{xx}} = 0.077878$이고, 참값과의 비가 $0.077878/0.082525 = 0.9437$이다. $X$를 $4000$번 새로 뽑아 평균하면 $0.9396$으로 극한값 $0.93896$에 붙는다.
     - **$s^2$ 쪽.** 이 표본의 $s^2 = 5.5889$가 $\bar{\sigma^2} = 6.0916$의 $91.75\%$로 들어왔다. 표준오차에서는 $\sqrt{0.9175} = 0.9578$배다.
 
-    곱하면 $0.9437 \times 0.9578 = 0.9039$로 쪽에 적힌 $90.4\%$가 그대로 나온다. **$10$퍼센트포인트 가운데 구조적인 몫은 $6$뿐이고 나머지 $4$는 이 표본의 $s^2$이 작게 나온 우연이다.** 한 번의 실현값을 과소평가의 크기로 인용하면 안 되고, 그 수는 $93.9\%$다.
+    곱하면 $0.9437 \times 0.9578 = 0.9039$로 쪽에 적힌 $90.4\%$가 그대로 나온다. **모자란 $9.6$퍼센트포인트 가운데 구조적인 몫은 $6.1$($= 100 - 93.9$)뿐이고 나머지 $3.5$는 대부분 이 표본의 $s^2$이 작게 나온 우연이다.** 한 번의 실현값을 과소평가의 크기로 인용하면 안 되고, 그 수는 $93.9\%$다.
 
 <div class="drillbox" markdown>
 
@@ -1546,7 +1546,7 @@ $$
     \operatorname{Var}(e_i) = v_i = \sum_j (\delta_{ij} - h_{ij})^2 \sigma_j^2
     $$
 
-    로 $i$마다 다르다. 이 자료에서 $v_i$가 $0.335$부터 $15.18$까지 퍼지고, 모아 놓은 첨도가 $3\,\overline{v^2}/\bar v^2 = 4.682$다. 모자행렬이 분산을 조금 뒤섞어 $\varepsilon$의 $4.733$을 $4.682$로 깎을 뿐 **3 근처로 데려오지 못한다.** $H_0$은 $\varepsilon$ 수준에서도 $\mathbf e$ 수준에서도 거짓이다.
+    로 $i$마다 다르다. 이 자료에서 $v_i$가 $0.335$부터 $15.18$까지 퍼지고, 모아 놓은 첨도가 $3\,\overline{v^2}/\bar v^2 = 4.682$다. 같은 셈을 $\varepsilon$에 하면 — 이 표본의 $x_i$로 잰 $3\,\overline{\sigma^4}/(\overline{\sigma^2})^2$ — $4.733$이 나온다(모집단 값 $4.74337$과의 차이는 $x_i$ $120$개의 표집 변동이다). 모자행렬이 분산을 조금 뒤섞어 $\varepsilon$의 $4.733$을 $4.682$로 깎을 뿐 **3 근처로 데려오지 못한다.** $H_0$은 $\varepsilon$ 수준에서도 $\mathbf e$ 수준에서도 거짓이다.
 
     **(2) 판정의 이름이 뒤바뀌어 있다.** $H_0$이 거짓이므로
 

diff --git a/docs/ch13/assumptions/weighted_regression.md b/docs/ch13/assumptions/weighted_regression.md
@@ -13,8 +13,8 @@
 그런데 무게를 쓰는 쪽에 덫이 하나 있다. 가중치를 모두 $1000$ 배 해도 추정값은 한 자리도 바뀌지 않는데, 공식이 주는 표준오차는 $0.258867$ 에서 $0.008186$ 으로 작아진다. 가중치를 $c$ 배 하면 공식의 표준오차가 $1/\sqrt c$ 배로 줄기 때문이고 $\sqrt{1000} = 31.6$ 이니 $0.258867/31.6 = 0.0082$ 다.
 
 <figure markdown>
-![두 칸짜리 그림. 왼쪽은 패널이 3000 명일 때 한 사람의 가중치가 평균의 몇 배인지에 따라 그 사람이 쥔 몫이 어떻게 커지는지를 그린 직선으로, 30 배이면 0.99 퍼센트다. 오른쪽은 가중치를 1배, 10배, 100배, 1000배로 키울 때 기울기 추정값은 2.00 에 머무는데 공식이 주는 표준오차만 0.28 에서 0.0089 로 줄어드는 막대다](./img/one_voice_counted_thirty.png){ width="980" }
-  <figcaption markdown>**왼쪽.** 한 사람이 쥔 몫은 $w/(n-1+w)$ 다. 패널이 $3{,}000$ 명이고 그 사람의 가중치가 평균의 $30$ 배이면 $0.99\%$ — 그 한 사람이 마음을 바꾸는 것만으로 가중평균이 $1$ 퍼센트포인트 가까이 움직인다. 가중치가 패널 크기보다 훨씬 작은 동안 이 몫은 **거의 직선으로** 늘어난다. **오른쪽.** 그리고 덫이 하나 있다. 가중치를 통째로 열 배씩 키우면 기울기 추정값은 $2.00$ 에서 한 자리도 움직이지 않는데, **가중치를 「이미 아는 정밀도」로 보는 공식**이 주는 표준오차는 $1/\sqrt{c}$ 로 줄어 $0.2810 \to 0.0089$ 가 된다.</figcaption>
+![두 칸짜리 그림. 왼쪽은 패널이 3000 명일 때 한 사람의 가중치가 평균의 몇 배인지에 따라 그 사람이 쥔 몫이 어떻게 커지는지를 그린 직선으로, 30 배이면 0.99 퍼센트다. 오른쪽은 가중치를 1배, 10배, 100배, 1000배로 키울 때 기울기 추정값은 2.0105 에 머무는데 공식이 주는 표준오차만 0.259 에서 0.0082 로 줄어드는 막대다](./img/one_voice_counted_thirty.png){ width="980" }
+  <figcaption markdown>**왼쪽.** 한 사람이 쥔 몫은 $w/(n-1+w)$ 다. 패널이 $3{,}000$ 명이고 그 사람의 가중치가 평균의 $30$ 배이면 $0.99\%$ — 그 한 사람이 마음을 바꾸는 것만으로 가중평균이 $1$ 퍼센트포인트 가까이 움직인다. 가중치가 패널 크기보다 훨씬 작은 동안 이 몫은 **거의 직선으로** 늘어난다. **오른쪽.** 그리고 덫이 하나 있다. 가중치를 통째로 열 배씩 키우면 기울기 추정값은 $2.0105$ 에서 한 자리도 움직이지 않는데, **가중치를 「이미 아는 정밀도」로 보는 공식**이 주는 표준오차는 $1/\sqrt{c}$ 로 줄어 $0.258867 \to 0.008186$ 이 된다. 보기 1 의 자료 그대로다.</figcaption>
 </figure>
 
 그러니 가중치에서 뜻을 갖는 것은 **절대 크기가 아니라 비율**이고, 크기를 손으로 정한 가중치의 표준오차는 그만큼 믿을 수 없다. 무게를 무엇으로 정하고, 그 무게가 찍어 주는 표준오차는 어디까지 믿을 수 있는가.
@@ -1050,7 +1050,7 @@ $$
 \qquad w_i\propto\frac{1}{\sigma_i^2}
 $$
 
-- **정밀한 관측에 더 무게를 준다.** 5.12절의 역분산 가중과 같은 원리이며, 분산이 큰 관측의 영향을 줄인다.
+- **정밀한 관측에 더 무게를 준다.** 5.12절 [추정량으로서의 표본평균](../../ch05/mean/sample_mean.md)의 역분산 가중과 같은 원리이며, 분산이 큰 관측의 영향을 줄인다.
 - **가중치를 알아야 한다는 것이 실무의 걸림돌이다.** $\sigma_i^2$ 를 모르면 잔차에서 추정해야 하고(반복가중최소제곱), 그 추정이 틀리면 이득이 사라진다.
 - **OLS 는 불편이지만 비효율적이다.** WLS 는 효율을 되찾으며, 가우스–마르코프의 최적성이 가중된 문제에서 회복된다.
 - **로버스트 표준오차와 목적이 다르다.** [HC3](../../glossary.md#hc3) 은 계수를 그대로 두고 표준오차만 고치고, WLS 는 **추정값 자체를 바꾼다.** 분산 구조를 안다면 WLS 가 더 효율적이고, 모른다면 로버스트 표준오차가 안전하다.
